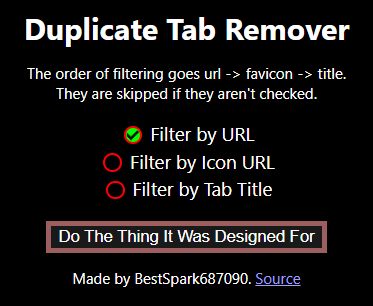
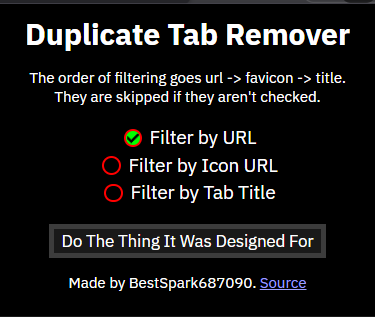
fix up the colors and used prettier on all of the code to format it

diff --git a/popup.js b/popup.js
@@ -1,54 +1,62 @@
-console.log("hello i am a popup help me if you want ulelelele")
-document.querySelector("#do_thing").addEventListener("click", async function(){
-    const tabs = await chrome.tabs.query({currentWindow: true});
-    console.log(tabs);
-    let tabUrlsWeAlreadyHave = [];
-    let tabFaviconsWeAlreadyHave = [];
-    let tabNamesWeAlreadyHave = [];
-    let selectedTypes = document.querySelectorAll("input[type=checkbox]");
-    let urlSelected = false;
-    let faviconSelected = false;
-    let titleSelected = false;
-    for(let type of selectedTypes){
-        if(type.checked && type.id == "url") urlSelected = true;
-        if(type.checked && type.id == "favicon") faviconSelected = true;
-        if(type.checked && type.id == "title") titleSelected = true;
-    }
-    // if they all false
-    if(!(urlSelected||faviconSelected||titleSelected)){
-        alert("You gotta pick one!");
-        return;
-    }
-    // I guess that works...
-    for(let tab of tabs){
-        // We're gonna push to them all just in case tbh.
-        if(!tabUrlsWeAlreadyHave.includes(tab.url)&&urlSelected){
-            tabUrlsWeAlreadyHave.push(tab.url);
-            tabFaviconsWeAlreadyHave.push(tab.favIconUrl);
-            tabNamesWeAlreadyHave.push(tab.title);
-        }else if(!tabFaviconsWeAlreadyHave.includes(tab.favIconUrl) && faviconSelected){
-            tabUrlsWeAlreadyHave.push(tab.url);
-            tabFaviconsWeAlreadyHave.push(tab.favIconUrl);
-            tabNamesWeAlreadyHave.push(tab.title);
-        }else if(!tabNamesWeAlreadyHave.includes(tab.title)&&titleSelected){
-            tabUrlsWeAlreadyHave.push(tab.url);
-            tabFaviconsWeAlreadyHave.push(tab.favIconUrl);
-            tabNamesWeAlreadyHave.push(tab.title);
-        }else{
-            chrome.tabs.remove(tab.id);
+console.log("hello i am a popup help me if you want ulelelele");
+document
+    .querySelector("#do_thing")
+    .addEventListener("click", async function () {
+        const tabs = await chrome.tabs.query({ currentWindow: true });
+        console.log(tabs);
+        let tabUrlsWeAlreadyHave = [];
+        let tabFaviconsWeAlreadyHave = [];
+        let tabNamesWeAlreadyHave = [];
+        let selectedTypes = document.querySelectorAll("input[type=checkbox]");
+        let urlSelected = false;
+        let faviconSelected = false;
+        let titleSelected = false;
+        for (let type of selectedTypes) {
+            if (type.checked && type.id == "url") urlSelected = true;
+            if (type.checked && type.id == "favicon") faviconSelected = true;
+            if (type.checked && type.id == "title") titleSelected = true;
         }
-        // if(!tabUrlsWeAlreadyHave.includes(tab.url) || 
-        // !tabFaviconsWeAlreadyHave.includes(tab.favIconUrl) ||
-        // !tabNamesWeAlreadyHave.includes(tab.title)
-        // ){
-        //     tabUrlsWeAlreadyHave.push(tab.url);
-        //     tabFaviconsWeAlreadyHave.push(tab.favIconUrl);
-        //     tabNamesWeAlreadyHave.push(tab.title);
-        //     continue;
-        // }else{
-        // // console.log()
-        // // since we hit a return each time if it gets caught, its fine if its out
-        // chrome.tabs.remove(tab.id);
-        // }  
-    }
-})
+        // if they all false
+        if (!(urlSelected || faviconSelected || titleSelected)) {
+            alert("You gotta pick one!");
+            return;
+        }
+        // I guess that works...
+        for (let tab of tabs) {
+            // We're gonna push to them all just in case tbh.
+            if (!tabUrlsWeAlreadyHave.includes(tab.url) && urlSelected) {
+                tabUrlsWeAlreadyHave.push(tab.url);
+                tabFaviconsWeAlreadyHave.push(tab.favIconUrl);
+                tabNamesWeAlreadyHave.push(tab.title);
+            } else if (
+                !tabFaviconsWeAlreadyHave.includes(tab.favIconUrl) &&
+                faviconSelected
+            ) {
+                tabUrlsWeAlreadyHave.push(tab.url);
+                tabFaviconsWeAlreadyHave.push(tab.favIconUrl);
+                tabNamesWeAlreadyHave.push(tab.title);
+            } else if (
+                !tabNamesWeAlreadyHave.includes(tab.title) &&
+                titleSelected
+            ) {
+                tabUrlsWeAlreadyHave.push(tab.url);
+                tabFaviconsWeAlreadyHave.push(tab.favIconUrl);
+                tabNamesWeAlreadyHave.push(tab.title);
+            } else {
+                chrome.tabs.remove(tab.id);
+            }
+            // if(!tabUrlsWeAlreadyHave.includes(tab.url) ||
+            // !tabFaviconsWeAlreadyHave.includes(tab.favIconUrl) ||
+            // !tabNamesWeAlreadyHave.includes(tab.title)
+            // ){
+            //     tabUrlsWeAlreadyHave.push(tab.url);
+            //     tabFaviconsWeAlreadyHave.push(tab.favIconUrl);
+            //     tabNamesWeAlreadyHave.push(tab.title);
+            //     continue;
+            // }else{
+            // // console.log()
+            // // since we hit a return each time if it gets caught, its fine if its out
+            // chrome.tabs.remove(tab.id);
+            // }
+        }
+    });

diff --git a/popup.html b/popup.html
@@ -1,29 +1,44 @@
-<!DOCTYPE html>
+<!doctype html>
 <html lang="en">
-<head>
-    <meta charset="UTF-8">
-    <meta name="viewport" content="width=device-width, initial-scale=1.0">
-    <title>I don't think anyone's gonna see this anyways...</title>
-    <link rel="stylesheet" href="style.css">
-</head>
-<body>
-    <h1>Duplicate Tab Remover</h1>
-    <p>The order of filtering goes url -> favicon -> title.<br>They are skipped if they aren't checked.</p>
-    <div>
-        <input type="checkbox" name="filter" id="url" value="url" checked>
-        <label for="url">Filter by URL</label>
-    </div>
-    <div>
-        <input type="checkbox" name="filter" id="favicon" value="favicon">
-        <label for="favicon">Filter by Icon URL</label>
-    </div>
-    <div>
-        <input type="checkbox" name="filter" id="title" value="title">
-        <label for="title">Filter by Tab Title</label>
-    </div>
-    <br>
-    <button id="do_thing">Do The Thing It Was Designed For</button>
-    <p>Made by BestSpark687090.&nbsp;<a target="_blank" href="https://github.com/BestSpark687090/duplicate_tab_remover_extension">Source</a></p>
-    <script src="popup.js"></script>
-</body>
+    <head>
+        <meta charset="UTF-8" />
+        <meta name="viewport" content="width=device-width, initial-scale=1.0" />
+        <title>I don't think anyone's gonna see this anyways...</title>
+        <link rel="stylesheet" href="style.css" />
+        <link rel="preconnect" href="https://fonts.googleapis.com" />
+        <link rel="preconnect" href="https://fonts.gstatic.com" crossorigin />
+        <link
+            href="https://fonts.googleapis.com/css2?family=IBM+Plex+Sans:ital,wght@0,100..700;1,100..700&display=swap"
+            rel="stylesheet"
+        />
+    </head>
+    <body>
+        <h1>Duplicate Tab Remover</h1>
+        <p>
+            The order of filtering goes url -> favicon -> title.<br />They are
+            skipped if they aren't checked.
+        </p>
+        <div>
+            <input type="checkbox" name="filter" id="url" value="url" checked />
+            <label for="url">Filter by URL</label>
+        </div>
+        <div>
+            <input type="checkbox" name="filter" id="favicon" value="favicon" />
+            <label for="favicon">Filter by Icon URL</label>
+        </div>
+        <div>
+            <input type="checkbox" name="filter" id="title" value="title" />
+            <label for="title">Filter by Tab Title</label>
+        </div>
+        <br />
+        <button id="do_thing">Do The Thing It Was Designed For</button>
+        <p>
+            Made by BestSpark687090.&nbsp;<a
+                target="_blank"
+                href="https://github.com/BestSpark687090/duplicate_tab_remover_extension"
+                >Source</a
+            >
+        </p>
+        <script src="popup.js"></script>
+    </body>
 </html>

diff --git a/style.css b/style.css
@@ -1,6 +1,6 @@
-body{
+body {
     background: black;
-    color:white;
+    color: white;
     display: flex;
     flex-direction: column;
     align-items: center;
@@ -8,14 +8,21 @@ body{
     text-align: center;
     color-scheme: dark;
 }
-html{
+
+* {
+    font-family: 'IBM Plex Sans', Arial, Helvetica, sans-serif;
+}
+
+html {
     width: 100%;
     min-width: 300px;
 }
-h1{
-    margin:0;
+
+h1 {
+    margin: 0;
 }
-input{
+
+input {
     width: 15px;
     border: 2px solid red;
     border-radius: 25px;
@@ -23,16 +30,18 @@ input{
     height: 15px;
     margin-bottom: 0;
     position: relative;
-    top:3px;
+    top: 3px;
 }
-label{
-    font-size:15px;
+
+label {
+    font-size: 15px;
 }
-input:checked::before{
+
+input:checked::before {
     content: "";
     background-image: url(check.png);
     background-position-y: -0.5px;
-    background-position-x: -0.25px;
+    /* background-position-x: -0.25px; */
     /* opacity: 0.5; */
     top: 0;
     position: absolute;
@@ -43,8 +52,9 @@ input:checked::before{
     z-index: -1;
     mask-image: radial-gradient(white 7px, transparent 2px);
 }
+
 /* Literally the EXACT same thing up above except the opacity's at 0.5 */
-input:hover::before{
+input:hover::before {
     content: "";
     background-image: url(check.png);
     background-position-y: -0.5px;
@@ -59,10 +69,12 @@ input:hover::before{
     z-index: -1;
     mask-image: radial-gradient(white 7px, transparent 2px);
 }
-button{
+
+button {
     background: rgb(25, 25, 25);
-    border: 4px solid rgb(156, 94, 94);
+    border: 4px solid rgb(60, 60, 60);
 }
-button:hover{
-    background: rgb(100,100,100);
+
+button:hover {
+    background: rgb(100, 100, 100);
 }

diff --git a/README.md b/README.md
@@ -5,15 +5,17 @@
 Does as it says.
 
 ## features!1!
-* filter tabs by URL,
-* or filter tabs by icon URL,
-* maybe even filter tabs by title.
-* why not all three, that's possible!
-* 7 different combinations of filtering!
-* an alert when none are selected
-* only filters tabs in the window you're in to keep your other tabs nice and safe!
+
+- filter tabs by URL,
+- or filter tabs by icon URL,
+- maybe even filter tabs by title.
+- why not all three, that's possible!
+- 7 different combinations of filtering!
+- an alert when none are selected
+- only filters tabs in the window you're in to keep your other tabs nice and safe!
 
 ## how to use
-* select your filter options
-* press the button that says "Do The Thing It Was Designed For" (weird name, but whatever :P)
-* the tabs will get filtered according to your options!
+
+- select your filter options
+- press the button that says "Do The Thing It Was Designed For" (weird name, but whatever :P)
+- the tabs will get filtered according to your options!